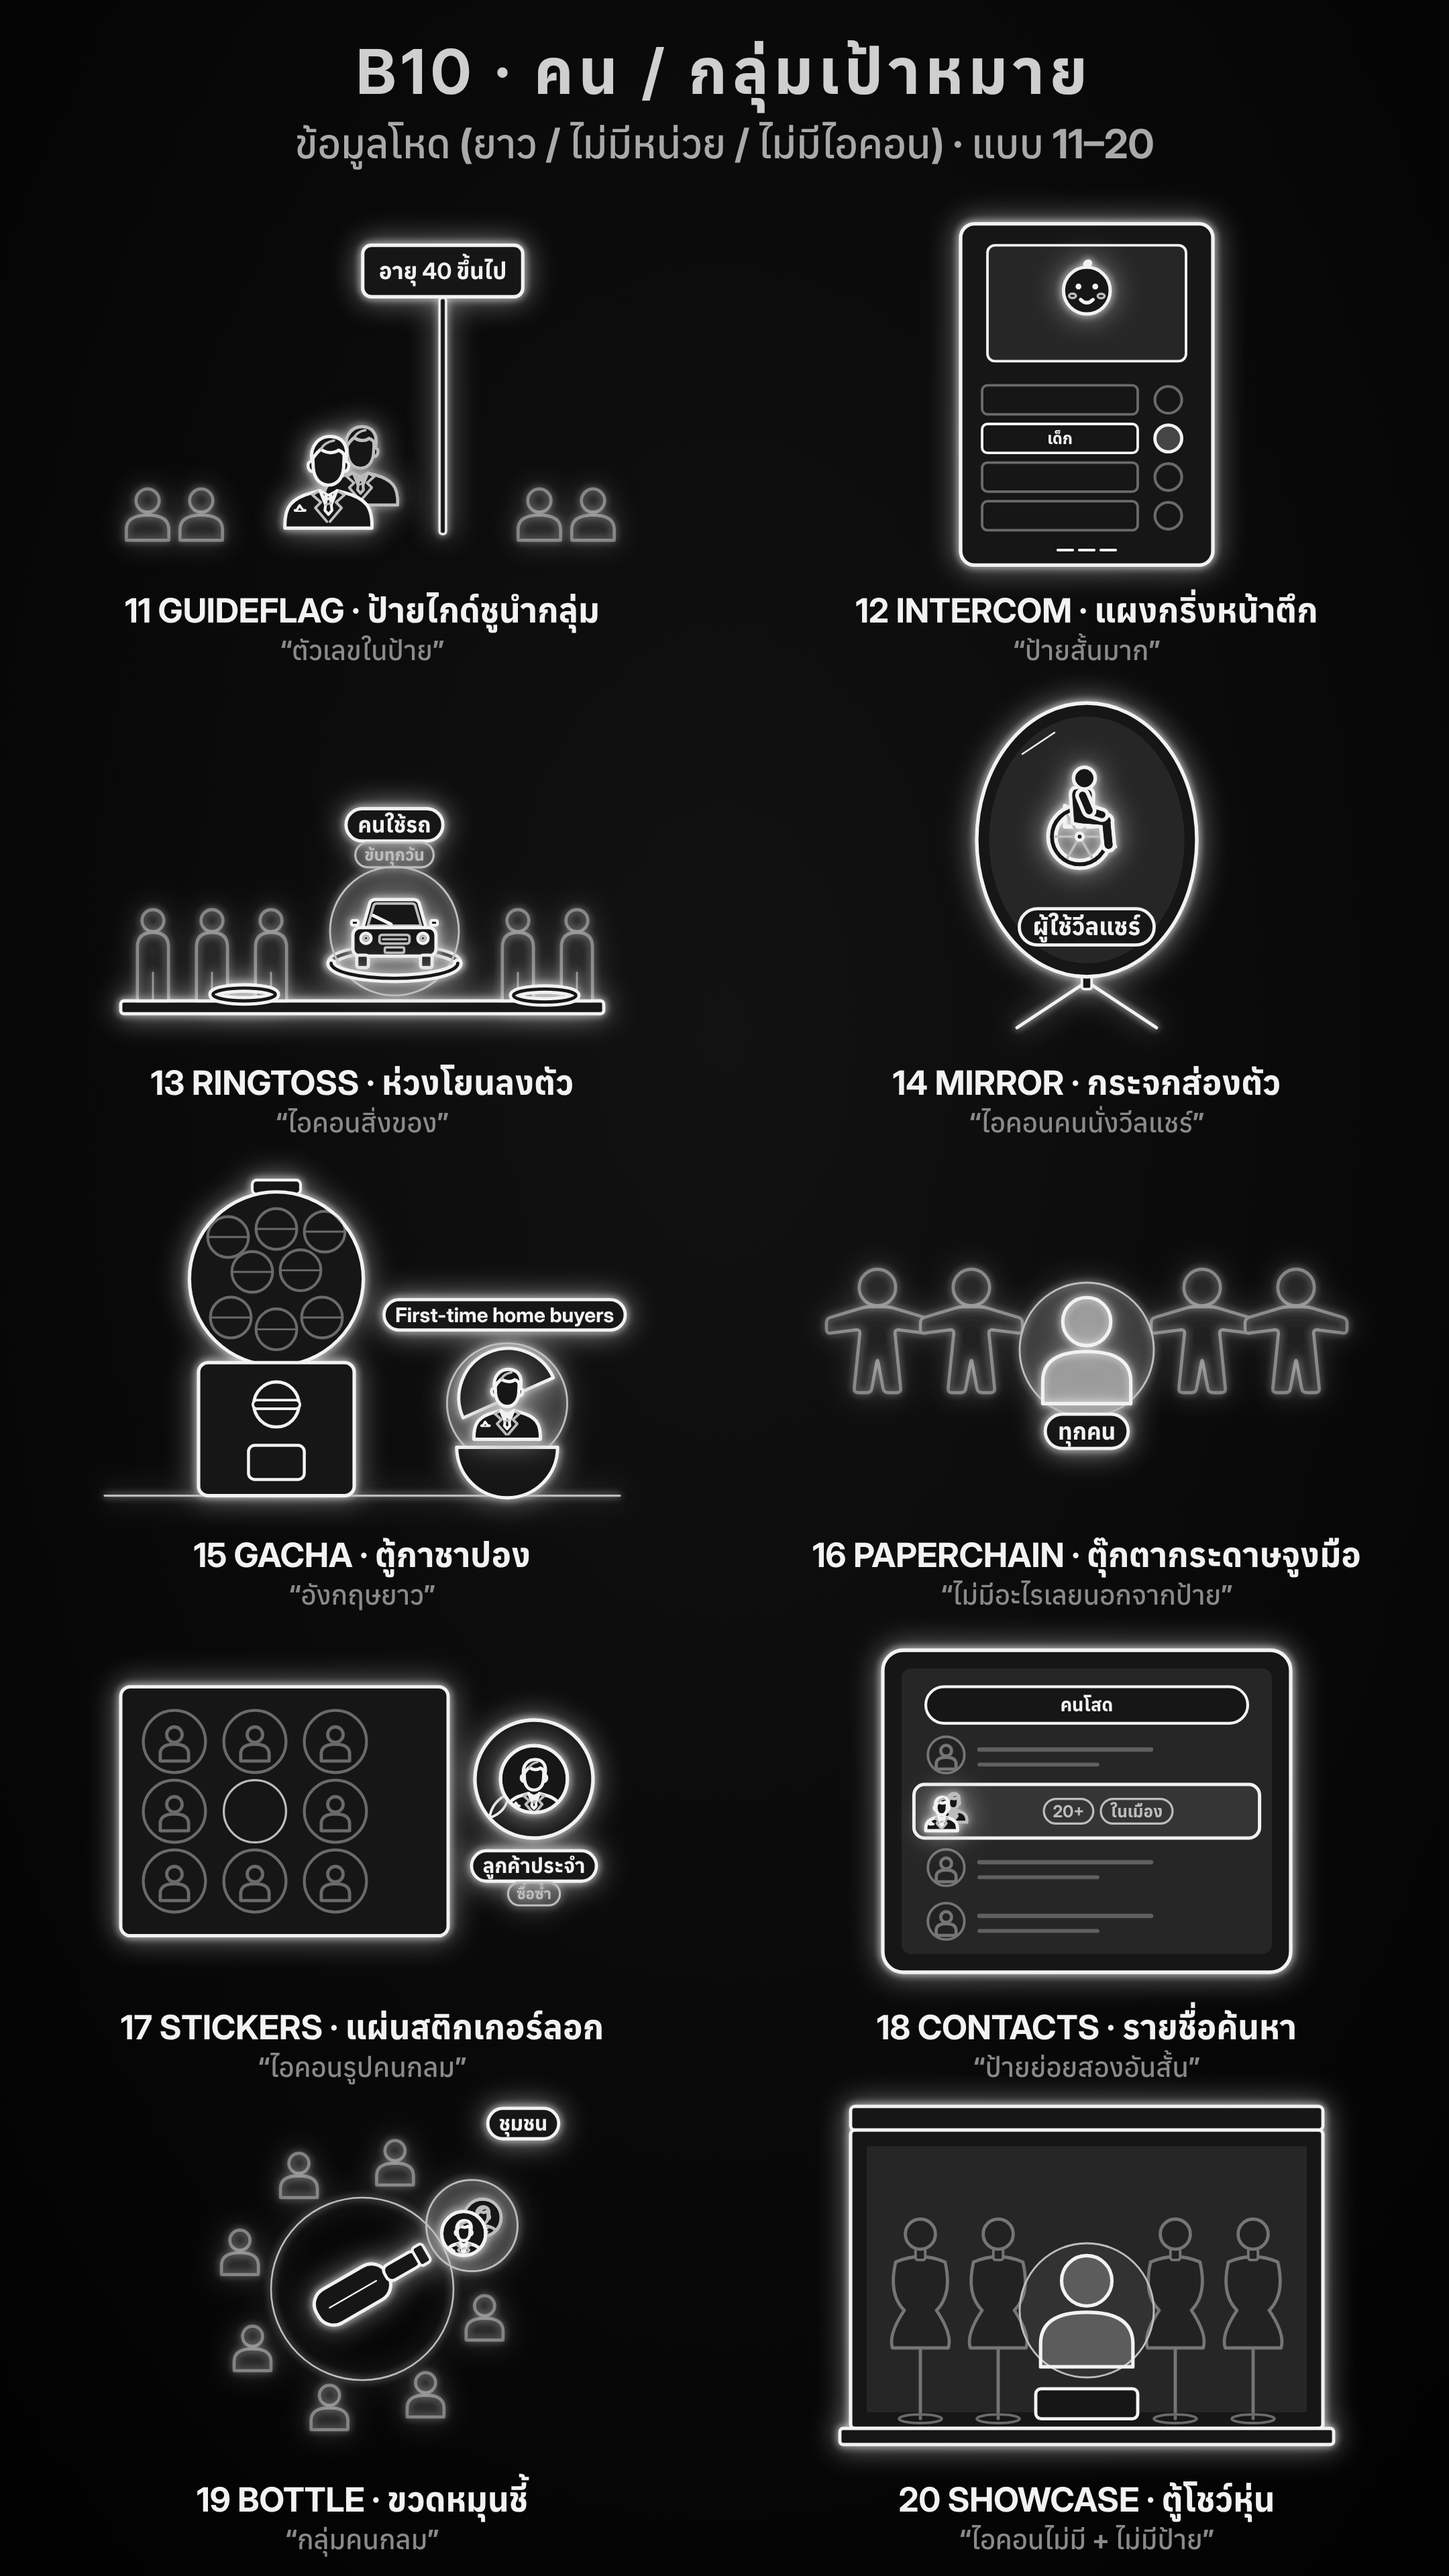
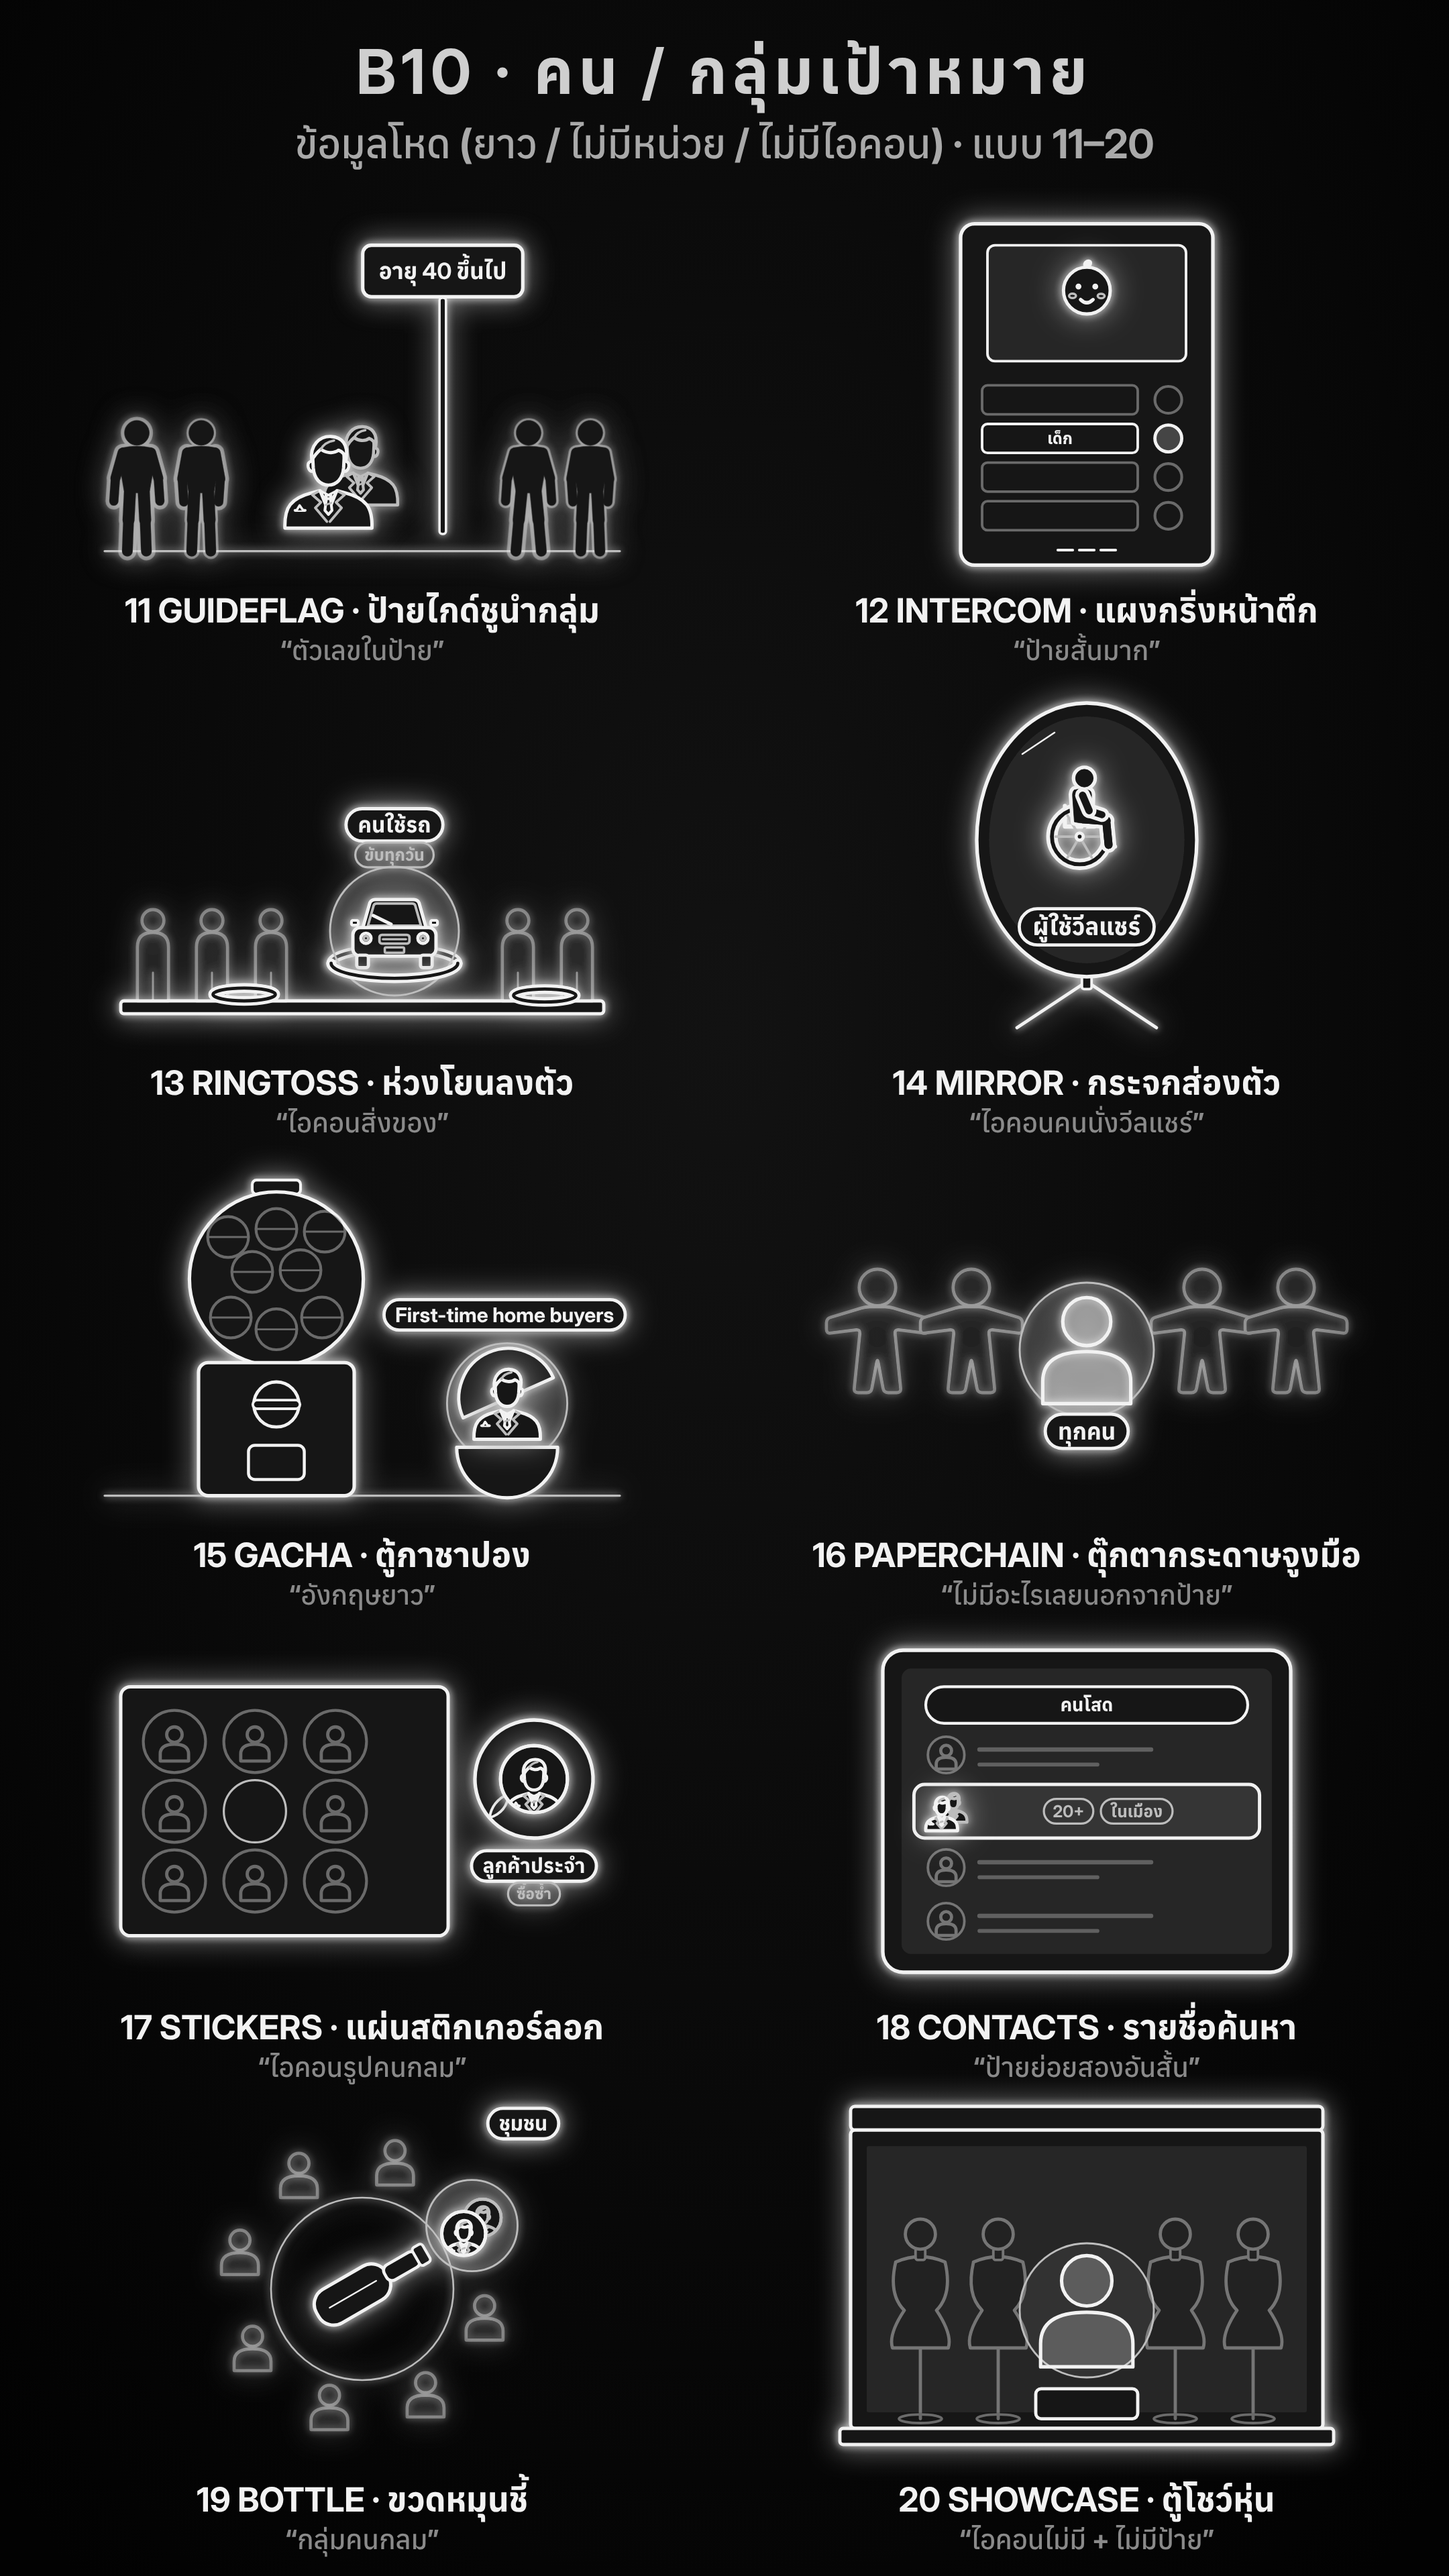
glow-line-motion: B10 11 — the people beside the guide sign are whole figures (GL.parts.human) with an opaque backing; stills; HANDOFF
Claude-Session: https://claude.ai/code/session_014abtgvMMbikXL3ZKsRYYwL

Changed region(s): [[0.062, 0.1562, 0.4343, 0.2188]]

diff --git a/.claude/skills/glow-line-motion/examples/b10/b10.js b/.claude/skills/glow-line-motion/examples/b10/b10.js
@@ -99,6 +99,17 @@
   function stand(q, x, fy, k = 1, o = F(3)) { q.path(`M ${f1(x - 34 * k)} ${f1(fy)} L ${f1(x - 34 * k)} ${f1(fy - 118 * k)} Q ${f1(x - 34 * k)} ${f1(fy - 150 * k)} ${f1(x)} ${f1(fy - 150 * k)} Q ${f1(x + 34 * k)} ${f1(fy - 150 * k)} ${f1(x + 34 * k)} ${f1(fy - 118 * k)} L ${f1(x + 34 * k)} ${f1(fy)} Z`, o);
     q.line(x, fy - 62 * k, x, fy - 2 * k, W(2)); q.circle(x, fy - 176 * k, 24 * k, o); }
 
+  /* a whole person (GL.parts.human, front view: head, body, jointed arms and legs — no face, no clothes); feet on fy, scale k.
+     User 2026-11-13 (B10 11): "ทำให้คน ฝั่งละ 2 คน เป็นคนที่สมจริง" */
+  function person(q, x, fy, k = .75, pose = {}, mode = 'line') { const g = q.child({ transform: `translate(${f1(x)} ${f1(fy - 166 * k)}) scale(${k})` }, k);
+    g.H = q.H; g.motion = q.motion; return G.parts.human(g, mode, pose); }
+  /* a person in the crowd that fades back: an opaque dark silhouette (not faded) under it, so the glow does not show through the faded
+     body as blotches (B05 lesson, duo()) */
+  function crowdPerson(back, cr, x, fy, k, pose) { const bk = sub(back); person(bk, x, fy, k, pose, 'solid');
+    bk.g.querySelectorAll('*').forEach(e => { if (e.getAttribute('fill') && e.getAttribute('fill') !== 'none') e.setAttribute('fill', C.fill); if (e.getAttribute('stroke')) e.setAttribute('stroke', C.fill); });
+    return person(cr, x, fy, k, pose); }
+  const RELAX = sd => ({ s: [sd * 36, -82], e: [sd * 48, -16], h: [sd * 44, 42] }), STANCE = sd => ({ h: [sd * 17, 8], k: [sd * 25, 88], f: [sd * 32, 166] });
+
   /* ---------- label + tags ---------- */
   /* a pill with a word in it, centred at (0,0) of its own group; strong = the label (bold ring), else a tag (soft ring) */
   function chip(q, str, { size = 36, strong = true, maxW = 420 } = {}) { size *= 1.18; const g = sub(q), t = txt(g, str, 0, size * .35, { size, maxW, weight: 700, color: strong ? C.ink : C.soft });
@@ -233,7 +244,7 @@
   /* 11 ── GUIDE SIGN: a tour guide's sign held up high over a group — the sign carries the kind; the group under it is the person icon */
   variant('guideflag', 'ป้ายไกด์ชูนำกลุ่ม', (d, c) => { const S0 = st(d), sx = 150;
     art(c, p => {
-      const cr = crowdG(p); [-400, -300, 330, 430].forEach(x => bust(cr, x, 232, .9));
+      p.line(-480, 292, 480, 292, S(2)); const bk = sub(p), cr = crowdG(p); [[-420, {}], [-300, { arm: RELAX }], [310, { leg: STANCE }], [425, { arm: RELAX }]].forEach(([x, pose]) => crowdPerson(bk, cr, x, 292, .74, pose));
       R(p, sx - 6, -180, 12, 440, 5, F(2.2));
       if (S0.label) { const g = sub(p, { transform: `translate(${sx} -230)` }), t = txt(g, S0.label, 0, 15, { size: 42, maxW: 520, weight: 700, color: C.ink }), w = Math.max(160, t.getBBox().width + 60);
         g.g.insertBefore(g.rect(f1(-w / 2), -48, f1(w), 96, { rx: 16, fill: C.fill, sw: 3.4 }), t); }

diff --git a/.claude/skills/glow-line-motion/HANDOFF.md b/.claude/skills/glow-line-motion/HANDOFF.md
@@ -155,6 +155,9 @@ branch นี้รวม `ccr-63225ff9-63jrph` ไว้แล้ว). Default 
   13 ringtoss ห่วงโยนลงตัว (ห่วงครึ่งหน้าอยู่ใน `over()`) · 14 mirror กระจกส่องตัว · 15 gacha ตู้กาชาปอง · 16 paperchain ตุ๊กตากระดาษจูงมือ ·
   17 stickers แผ่นสติกเกอร์ลอก · 18 contacts รายชื่อค้นหา (ประเภทพิมพ์ในช่องค้นหา) · 19 bottle ขวดหมุนชี้ (คนล้อมวงเปลี่ยนจากมุมบนเป็นหันหน้า — มุมบนดูเป็นก้อน) ·
   20 showcase ตู้โชว์หุ่น.
+- ผู้ใช้: **"11 ทำให้คน ฝั่งละ 2 คน เป็นคนที่สมจริง"** → ฝูงข้างป้ายไกด์ = คนเต็มตัว `person()` (`GL.parts.human` มุมหน้า หัว ลำตัว แขนขามีข้อต่อ — ไม่มีหน้า/เสื้อผ้า)
+  ท่ายืนต่างกันเล็กน้อย (`RELAX` แขนแนบ, `STANCE` ขากาง) + เส้นพื้น. คนที่จางลงต้องมีเงาทึบรอง (`crowdPerson`: human 'solid' ทาสีพื้นไว้ใต้ ไม่จาง) —
+  ไม่งั้นเส้นในตัวลอดเป็นรอยด่างตอนจาง (บทเรียน B05 ซ้ำ). ภาพใกล้ `b10-11-people.png` + แผ่น A2/B2 ทำใหม่.
 
 ## ✅ B09 "เวลา / ไทม์ไลน์ / เดดไลน์" 20 แบบ (2026-11-13) — ผู้ใช้ตอบ "ผ่าน" · วิดีโอใน `references/approved/b09/`
 
